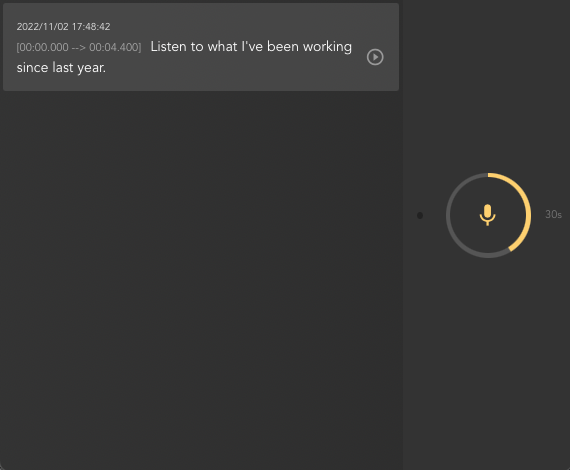
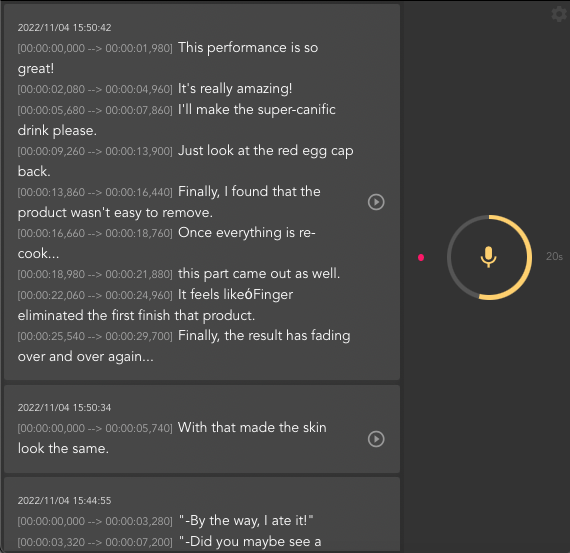
update README

diff --git a/pages/index.js b/pages/index.js
@@ -78,7 +78,7 @@ class Page extends React.Component {
         this.sendFlag = false
 
         this.MAX_COUNT = 10
-        this.RECORD_TIME = 30
+        //this.RECORD_TIME = 30
 
         this.handlePlay = this.handlePlay.bind(this)
         this.handleStart = this.handleStart.bind(this)

diff --git a/pages/components/iconbutton.module.css b/pages/components/iconbutton.module.css
@@ -3,4 +3,5 @@
     border-radius: 50%;
     width: 24px;
     height: 24px;
+    cursor: pointer;
 }

diff --git a/README.md b/README.md
@@ -36,20 +36,27 @@ This is all my system can handle otherwise it will come to a stand still.
 
 ## The App
 
-![Screenshot](./public/screenshot.png "Screenshot")
+![App](./public/screenshot.png "App")
 
 Basically, the app will record continuous `5 seconds` (by default) of audio, upload it to the server, transcribe it using `Whisper` and send the result back.
-You can edit the recordingperiod by editing `this.RECORD_TIME` variable.
+You can edit the recordingperiod by editing `duration` in `Settings`.
 
 At first, I was sending the audio data as it is created. 
 However, this caused bottle-neck as transcribing takes time.
 So I tried implementing a queue like approach, to only send data one at a time and wait until it finishes before sending another.
 
-Please note that the uploaded files and transcribed output can easily increase in number inside the `upload` and `root` folder, respectively.
+Please note that the uploaded files and transcribed output can easily increase in number inside the `upload` folder.
 I will probably need to set a maximum count after which I automatically stop recording for safety purposes.
 
+![Output](./public/screenshot3.png "Output")
+
+It is possible to play the uploaded audio and follow the text output since the time period is shown.
+
 As for the code itself, I used `class component` (I know, I know...) because I had a difficult time to access `state variables` using hooks when I was developing.
-I started using `functional component` but decided later on refactored it to `class component`.
+
+![Settings](./public/screenshot2.png "Settings")
+
+It is also now possible to change recording `duration` and several `Whisper` options such as `language`, `model` and `task` from the `Settings` dialog. Please check [Whisper's github repository](https://github.com/openai/whisper) for the explanation on the options.
 
 There are still lots of things to do so this project is still a work in progress...
 
@@ -99,6 +106,8 @@ Open your browser to `http://localhost:3006/` to load the application page.
 ## Using HTTPS
 
 You might want to run this app using `https` protocol.
+This is needed if you want to use a separate device for audio capture and use your machine as server.
+
 In order to do so, prepare the proper `certificate` and `key` files and edit `server.js` at the root directory.
 
 Then run
